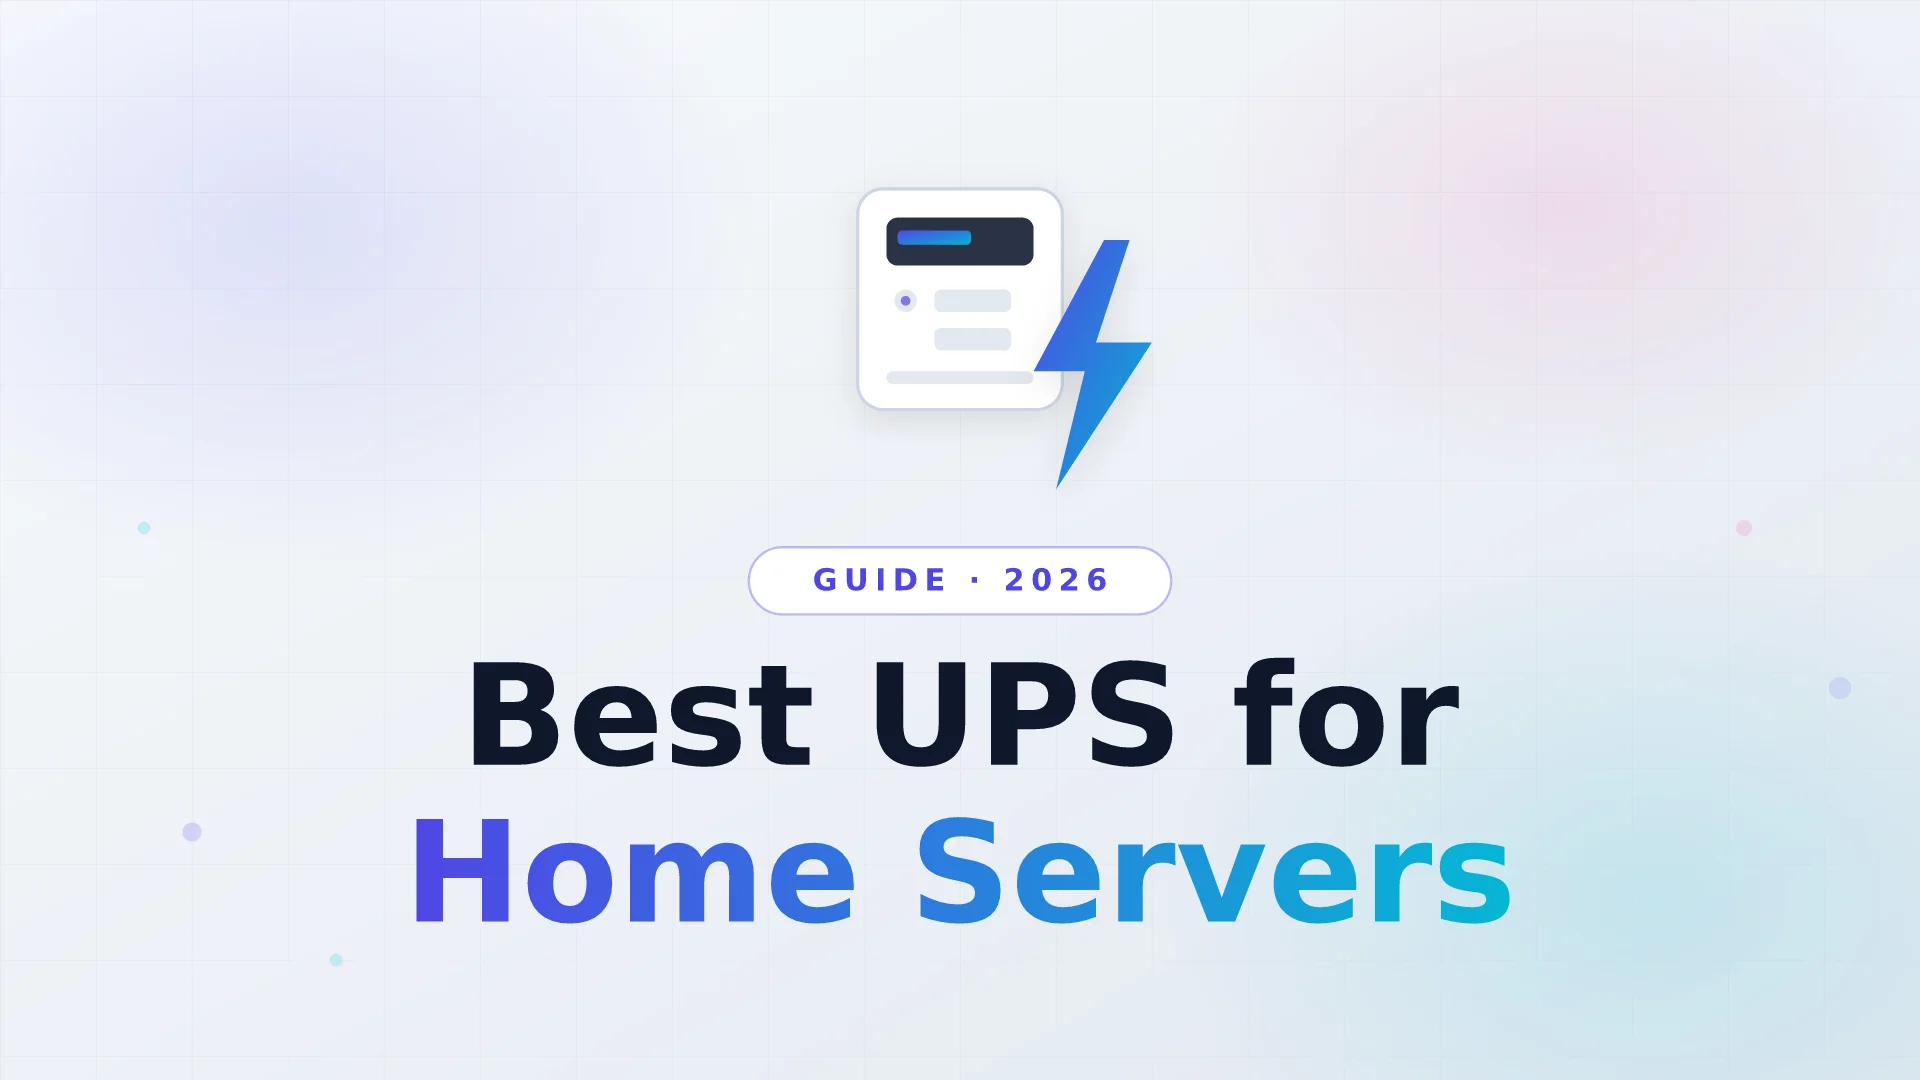
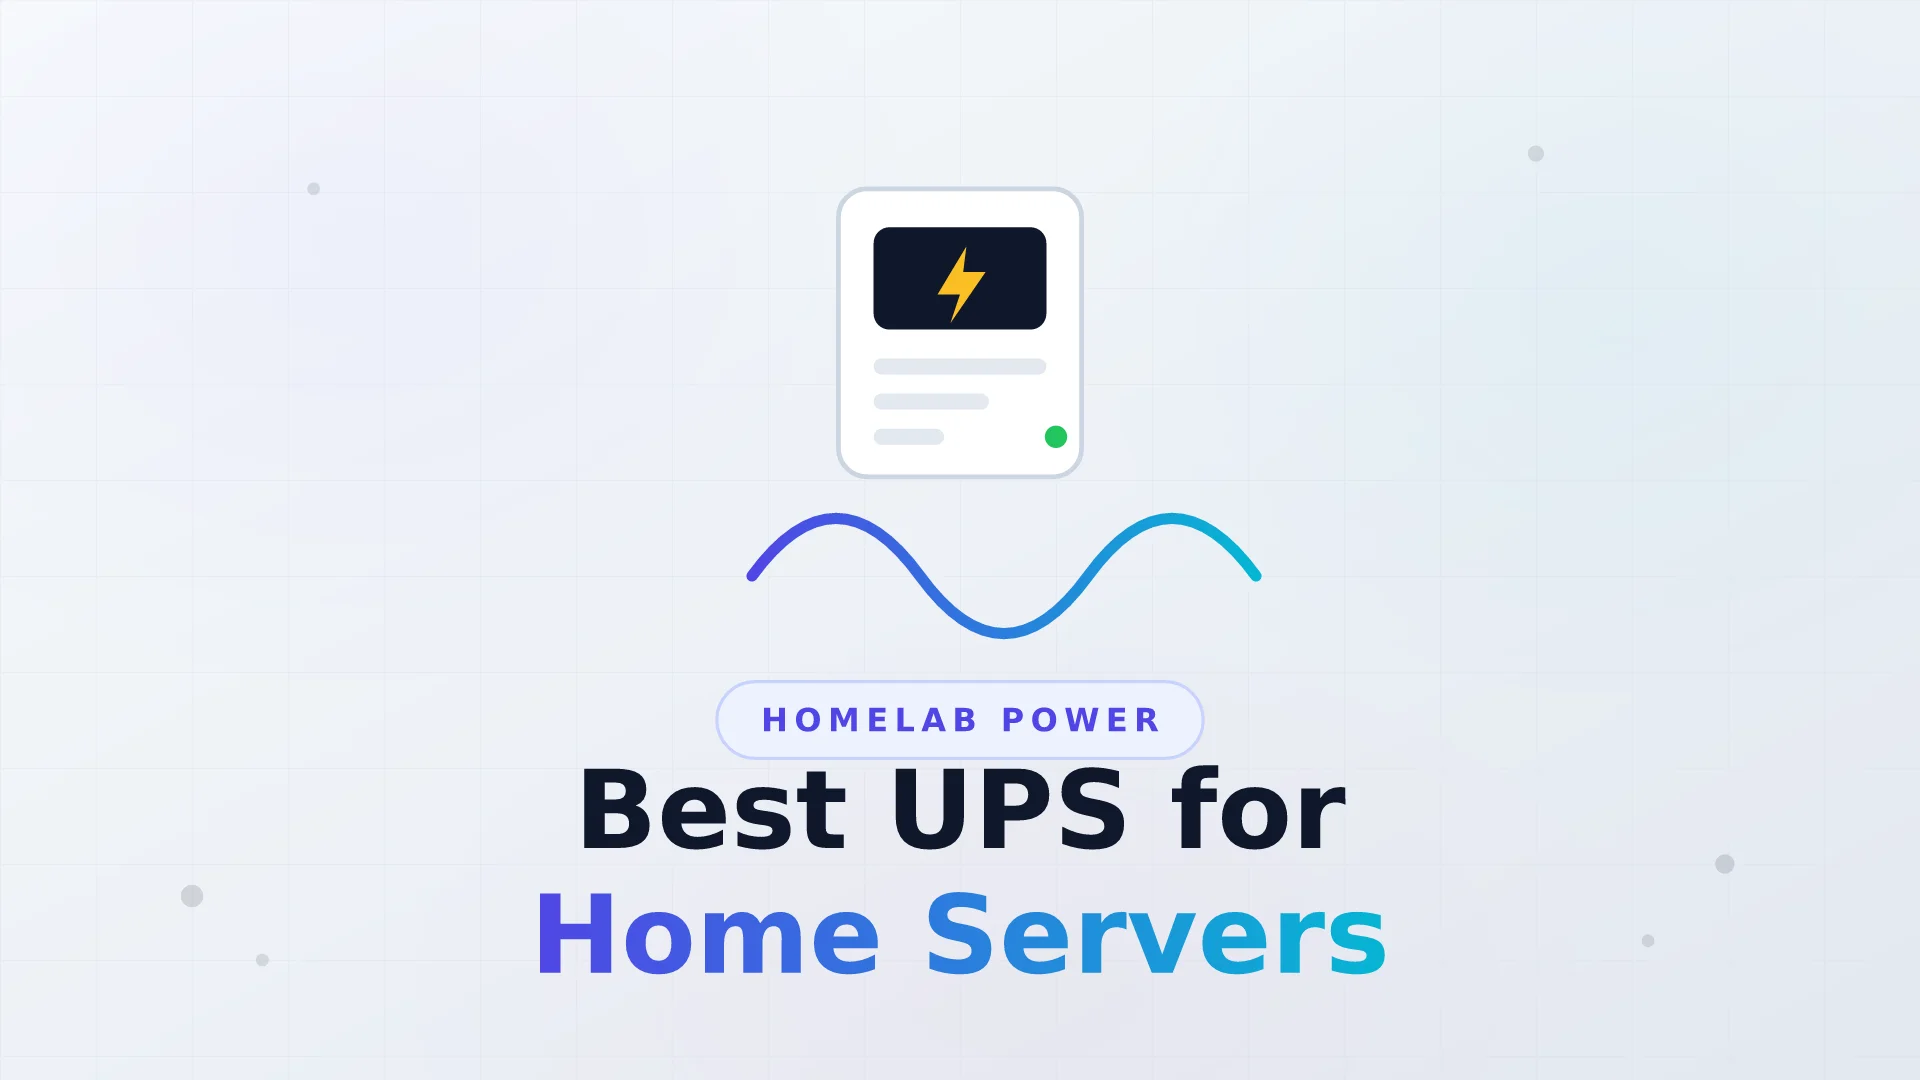
content: rewrite best UPS for home server guide with verified specs
Prices, ratings and availability re-checked on 2026-09-21 via the Bright
Data Amazon MCP (US, zipcode 11001) and web sources:

- CP1500PFCLCD $239.95 (4.5*, 11,403) stays the lead pick; NUT
  compatibility confirmed by CyberPower's own review summary
- Adds CP1500PFCRM2U ($359.95, 2U rackmount, new /go/ slug) as the value
  rackmount next to the SMC1500-2UC ($775, third-party buybox)
- Drops PR1500LCDRTXL2U ("Currently unavailable") and DELTA 2 (no
  buybox) to stock-watch notes
- Replaces guessed runtime figures with vendor/measured numbers
  (66 min @100W CyberPower, 73 min APC, 24 min @200W measured by
  CustomPCReview) and adds ATX 3.0/3.1 hold-up vs UPS transfer times
- Adds real battery replacement costs and CyberPower NUT quirks
  (pollonly, offdelay, 2.8.4/2.8.5 disconnect bug)

fix(affiliate): stop tagging internal /go/ links with a foreign tag

AmazonProduct.astro appended tag=electrickettlesguide-20 to every
product link, including first-party /go/ redirects that already carry
the site tag. Internal redirects now pass through untouched; external
Amazon links get bido08-20.

diff --git a/to-do-affiliate-artices.md b/to-do-affiliate-artices.md
@@ -51,7 +51,7 @@ Status legend: `[ ]` not started · `[~]` in progress · `[x]` done
 
 ### Tier 2 (fill the shelf)
 
-- [x] **3.5 Best UPS for home server** — SERP verified genuinely open. Picks: **CyberPower CP1500PFCLCD** ($239.95, 1500VA/1000W pure sine, NUT-compatible — consensus homelab pick), **APC BR1500MS2** ($299.99, apcupsd story), **CP850PFCLCD** ($169.95) budget, **APC SMC1500-2UC** ($820.45) rackmount, **EcoFlow DELTA 3** (LiFePO4 long-runtime angle). Must-cover: pure sine wave required for active-PFC PSUs, USB/NUT graceful shutdown, runtime-at-real-load table. (done 2026-09-21: `best-ups-for-home-server.mdx` published, prices verified Sep 21 via Amazon/tinyfish — Bright Data MCP was 407-down all day. Pivots: **EcoFlow DELTA 2 discontinued/out of stock → pick is DELTA 3** ($599, B0DCBYMC9D, new slug `/go/ecoflow-delta-3/`); **PR1500LCDRTXL2U unavailable on Amazon at check** → SMC1500-2UC leads rackmount, PR1500 as stock-watch alternative).
+- [x] **3.5 Best UPS for home server** — SERP verified genuinely open. (done 2026-09-21, refreshed same day: `best-ups-for-home-server.mdx`; prices and ratings verified 2026-09-21 via Bright Data Amazon MCP + tinyfish/web search.) Picks: **CyberPower CP1500PFCLCD** ($239.95, 1500VA/1000W pure sine, NUT-compatible, 4.5★/11,403, #1 category), **CyberPower CP850PFCLCD** ($169.95) budget, **APC BR1500MS2** ($299.99, 73 min @ 100W per APC), **CyberPower CP1500PFCRM2U** ($359.95, 2U rackmount value pick — new `/go/cyberpower-cp1500pfcrm2u/` slug; caveats: coil whine every 30s, mixed reliability), **APC SMC1500-2UC** ($775, third-party buybox), **EcoFlow DELTA 3** ($599, 1024Wh LiFePO4, no NUT). Must-cover: pure sine wave for active-PFC PSUs, ATX 3.0/3.1 hold-up 17ms→12ms vs 2-8ms UPS transfer, NUT `usbhid-ups` graceful-shutdown config, runtime-at-real-load table. Unavailable at check: **PR1500LCDRTXL2U** ("Currently unavailable", no restock date), **EcoFlow DELTA 2** (no active buybox, $899 third-party only).
 - [ ] **3.6 Best mini PC for local LLM/Ollama** — bridge article (AI + homelab audiences). Verified landscape: all 128GB Strix Halo boxes share Ryzen AI Max+ 395 (~256GB/s, ~5-10 tok/s dense 70B, GPT-OSS-120B ~31 tok/s). Picks: **GMKtec EVO-X2** (~$3,649 after DRAM repricing; check current), **Framework Desktop** (repairable), **Minisforum MS-S1 MAX** (budget, thermal-limited), **HP Z2 Mini G1a** (ECC + support), **DGX Spark** ($4,699, CUDA), **Mac Studio** (M4 Max/M3 Ultra, MLX). 32GB starter: Minisforum AI X1 Pro-470. Caveat GTR9 Pro (Amazon 3.0★).
 - [ ] **3.7 Best mini PC for Proxmox** — verified picks: **Minisforum MS-01** (i9-13900H, 2×10GbE SFP+ + 2×2.5GbE, PCIe slot, ~$549-829 — community default), **Beelink EQ14** (N150, dual 2.5GbE, 6W idle, ~$189), **CWWK N305 fanless** (4× Intel 2.5GbE, ~$270), **MS-A2** high-end. Include: **Intel i226-V link-drop caveat**, Realtek 8125 vs Intel NIC on Proxmox 8.3+, IOMMU cleanliness (AMD Ryzen > Intel N-series).
 - [ ] **3.8 Best 2.5/10GbE switch for homelab** — verified: **TP-Link TL-SG108S-M2** (8-port, ~$50-80, fanless metal), TL-SG105S-M2 (5-port), **NETGEAR MS308**, **UGREEN 6-port**, **GigaPlus GP-S25-1602** (16×2.5G + 2×10G SFP+, ~$160, STH-reviewed), UniFi alternative angle.
